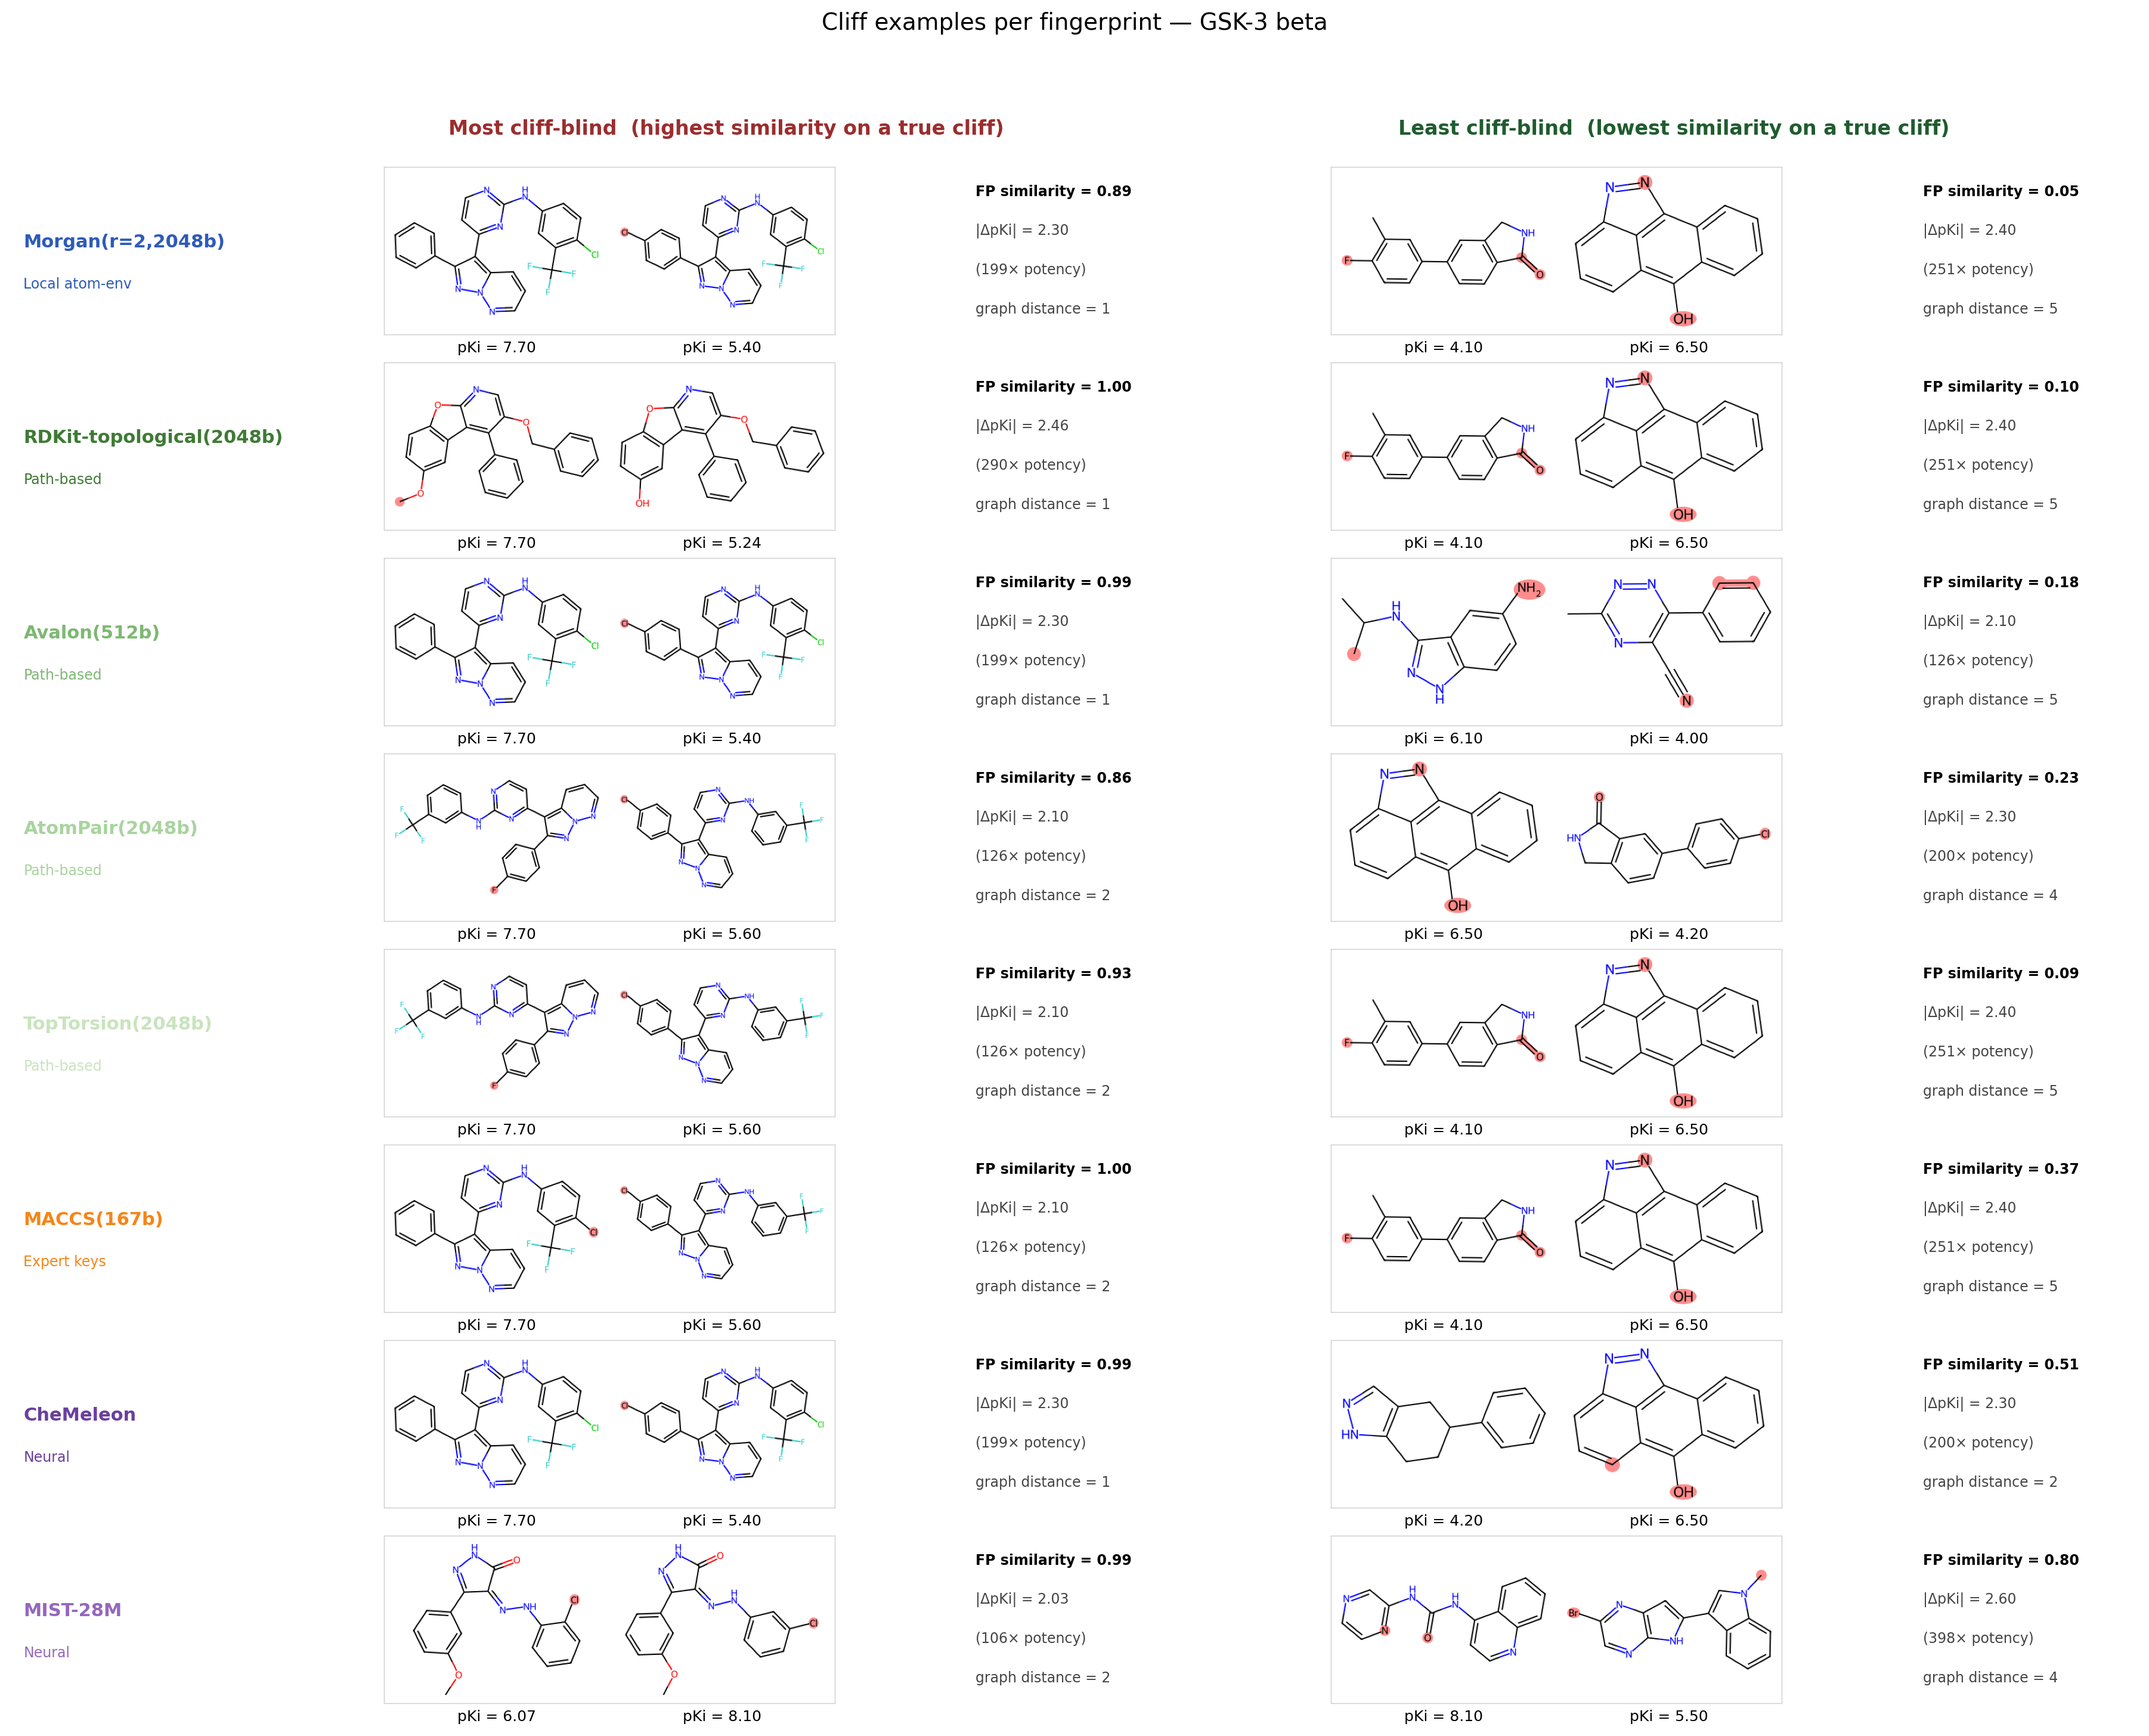
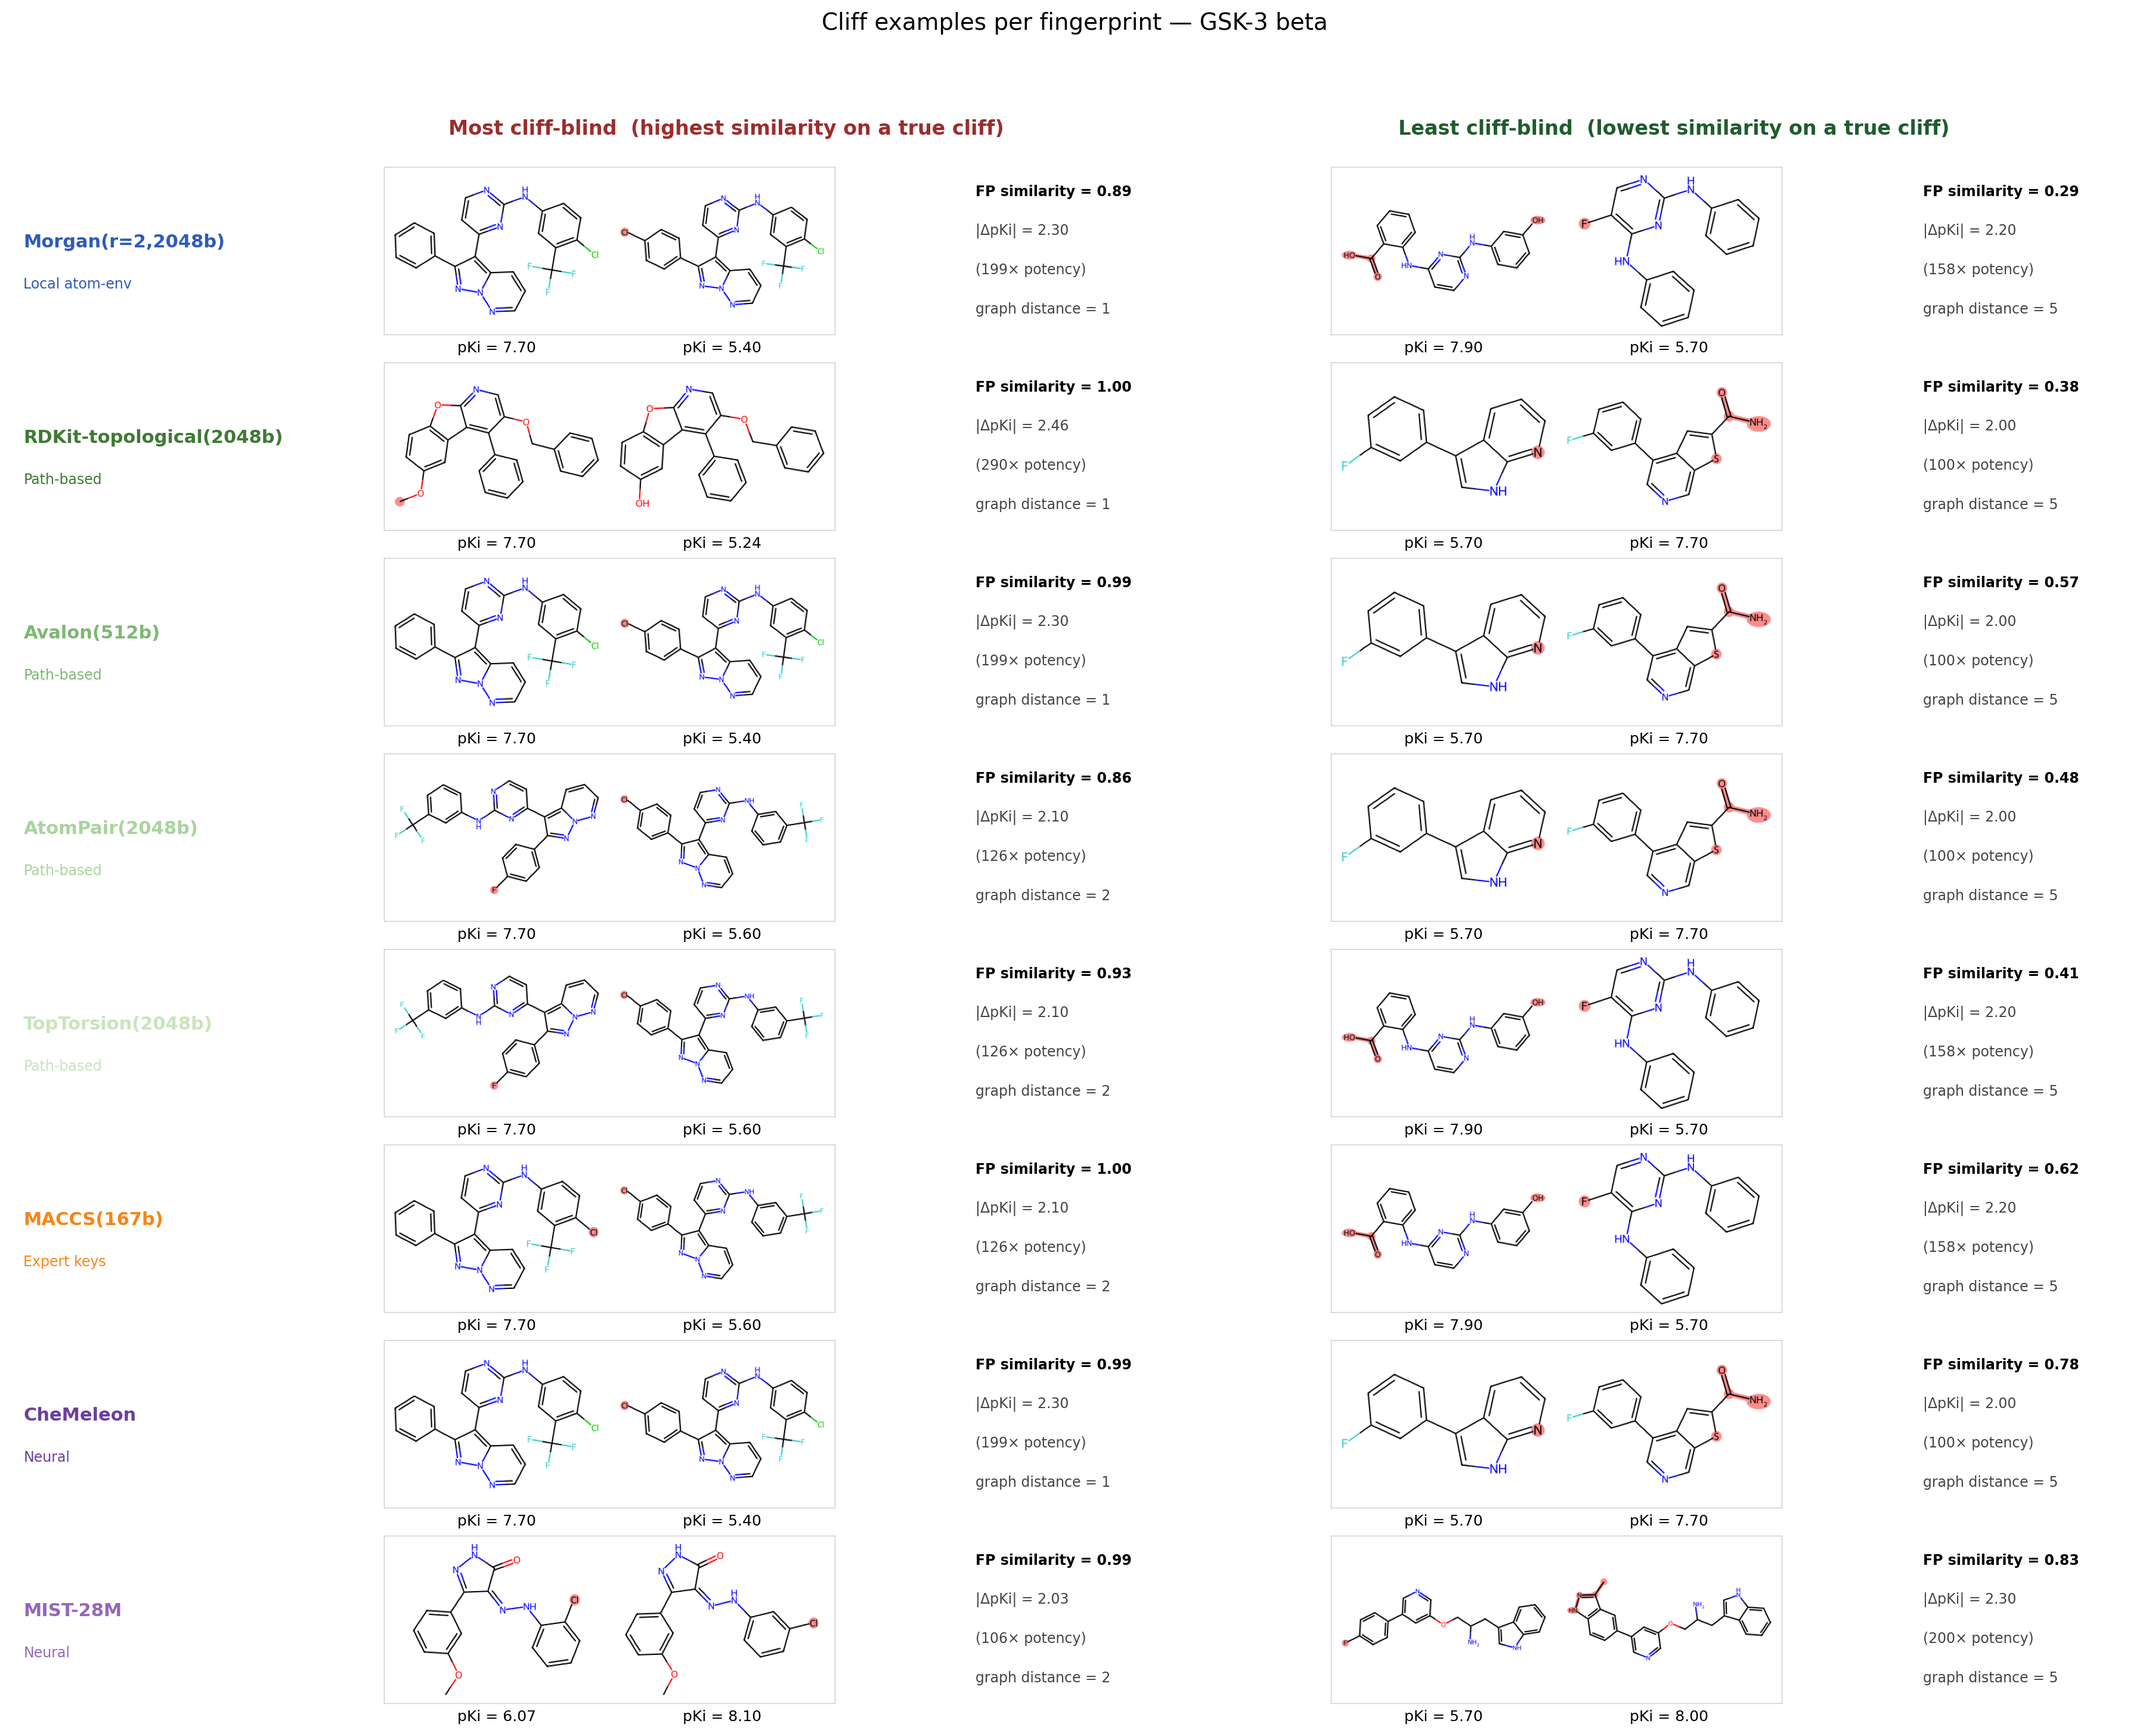
Tighten MCS bond comparison to CompareOrderExact
The default CompareOrder treats aromatic and saturated bonds as soft
matches: the MCS SMARTS uses ':,-' (aromatic-or-single) bond syntax,
which means GetSubstructMatch matches aromatic substructures inside
saturated rings. This let aromatic vs saturated ring pairs slip into
the cliff candidate set, e.g. carbazole vs decalin counted as graph
distance 2 because all 28 aromatic C atoms 'matched' all 28 saturated
C atoms.

CompareOrderExact requires aromatic bonds to match aromatic bonds and
single to single. Cliff counts drop (D3 3137 -> 1016, Thrombin 1180
-> 569, GSK-3 beta 186 -> 129) but the surviving pairs are genuine
small-change cliffs. The headline finding strengthens: neural FPs are
even more clearly cliff-blind on the cleaner set.

diff --git a/src/fingerprints/clustering/cliffs.py b/src/fingerprints/clustering/cliffs.py
@@ -106,7 +106,7 @@ def _mcs_atoms(mol_i: Mol, mol_j: Mol, timeout: int = 2) -> int | None:
         [mol_i, mol_j],
         timeout=timeout,
         atomCompare=rdFMCS.AtomCompare.CompareElements,
-        bondCompare=rdFMCS.BondCompare.CompareOrder,
+        bondCompare=rdFMCS.BondCompare.CompareOrderExact,
         completeRingsOnly=False,
     )
     if res.canceled:
@@ -127,7 +127,7 @@ def mcs_diff_atoms(
         [mol_i, mol_j],
         timeout=timeout,
         atomCompare=rdFMCS.AtomCompare.CompareElements,
-        bondCompare=rdFMCS.BondCompare.CompareOrder,
+        bondCompare=rdFMCS.BondCompare.CompareOrderExact,
         completeRingsOnly=False,
     )
     if res.canceled:
